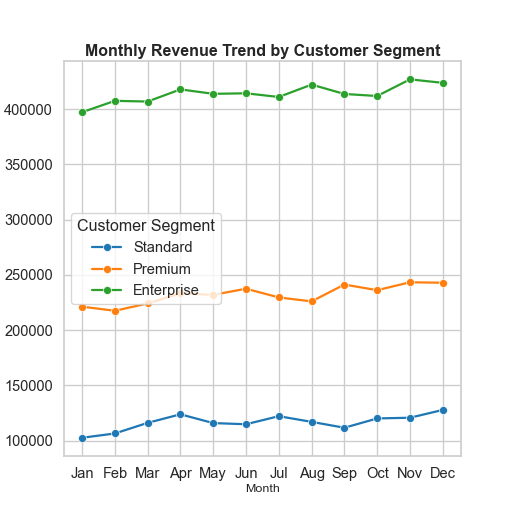
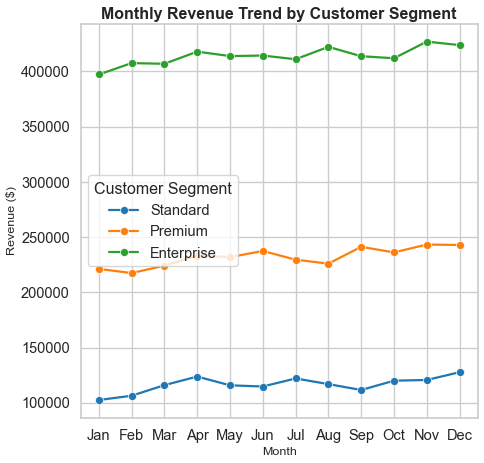
commit changes

Changed region(s): [[0.0, 0.0, 0.9917, 0.9978]]

diff --git a/chart.py b/chart.py
@@ -3,26 +3,18 @@ import matplotlib.pyplot as plt
 import pandas as pd
 import numpy as np
 
-# Set random seed for reproducibility
 np.random.seed(42)
-
-# Set Seaborn style and context for professional appearance
 sns.set_style("whitegrid")
 sns.set_context("talk")
 
-# Generate synthetic data for monthly revenue trends by segment
 months = pd.date_range("2024-01-01", periods=12, freq="MS").strftime("%b")
 segments = ["Standard", "Premium", "Enterprise"]
-
 data = []
+
 for segment in segments:
-    base = {
-        "Standard": 100_000,
-        "Premium": 220_000,
-        "Enterprise": 400_000,
-    }[segment]
-    trend = np.linspace(0, 30_000, 12)  # up to +30k/year trend
-    seasonality = 8000 * np.sin(np.linspace(0, 2 * np.pi, 12))  # add seasonality
+    base = {"Standard": 100000, "Premium": 220000, "Enterprise": 400000}[segment]
+    trend = np.linspace(0, 30000, 12)
+    seasonality = 8000 * np.sin(np.linspace(0, 2 * np.pi, 12))
     noise = np.random.normal(0, 5000, 12)
     revenue = base + trend + seasonality + noise
     for i, month in enumerate(months):
@@ -30,22 +22,11 @@ for segment in segments:
 
 df = pd.DataFrame(data)
 
-# Create the lineplot
-plt.figure(figsize=(8, 8))  # 8 inches * 64 dpi = 512x512 pixels
-sns.lineplot(
-    data=df,
-    x="Month",
-    y="Revenue ($)",
-    hue="Customer Segment",
-    marker="o",
-    palette="tab10",
-    linewidth=2.5
-)
+plt.figure(figsize=(8, 8))
+sns.lineplot(data=df, x="Month", y="Revenue ($)", hue="Customer Segment", marker="o", linewidth=2.5)
 plt.title("Monthly Revenue Trend by Customer Segment", fontsize=18, weight="bold")
 plt.xlabel("Month", fontsize=14)
 plt.ylabel("Revenue ($)", fontsize=14)
 plt.legend(title="Customer Segment")
-
-# Save as exactly 512x512 PNG
-plt.savefig("chart.png", dpi=64)
+plt.savefig("chart.png", dpi=64, bbox_inches='tight')
 plt.close()
